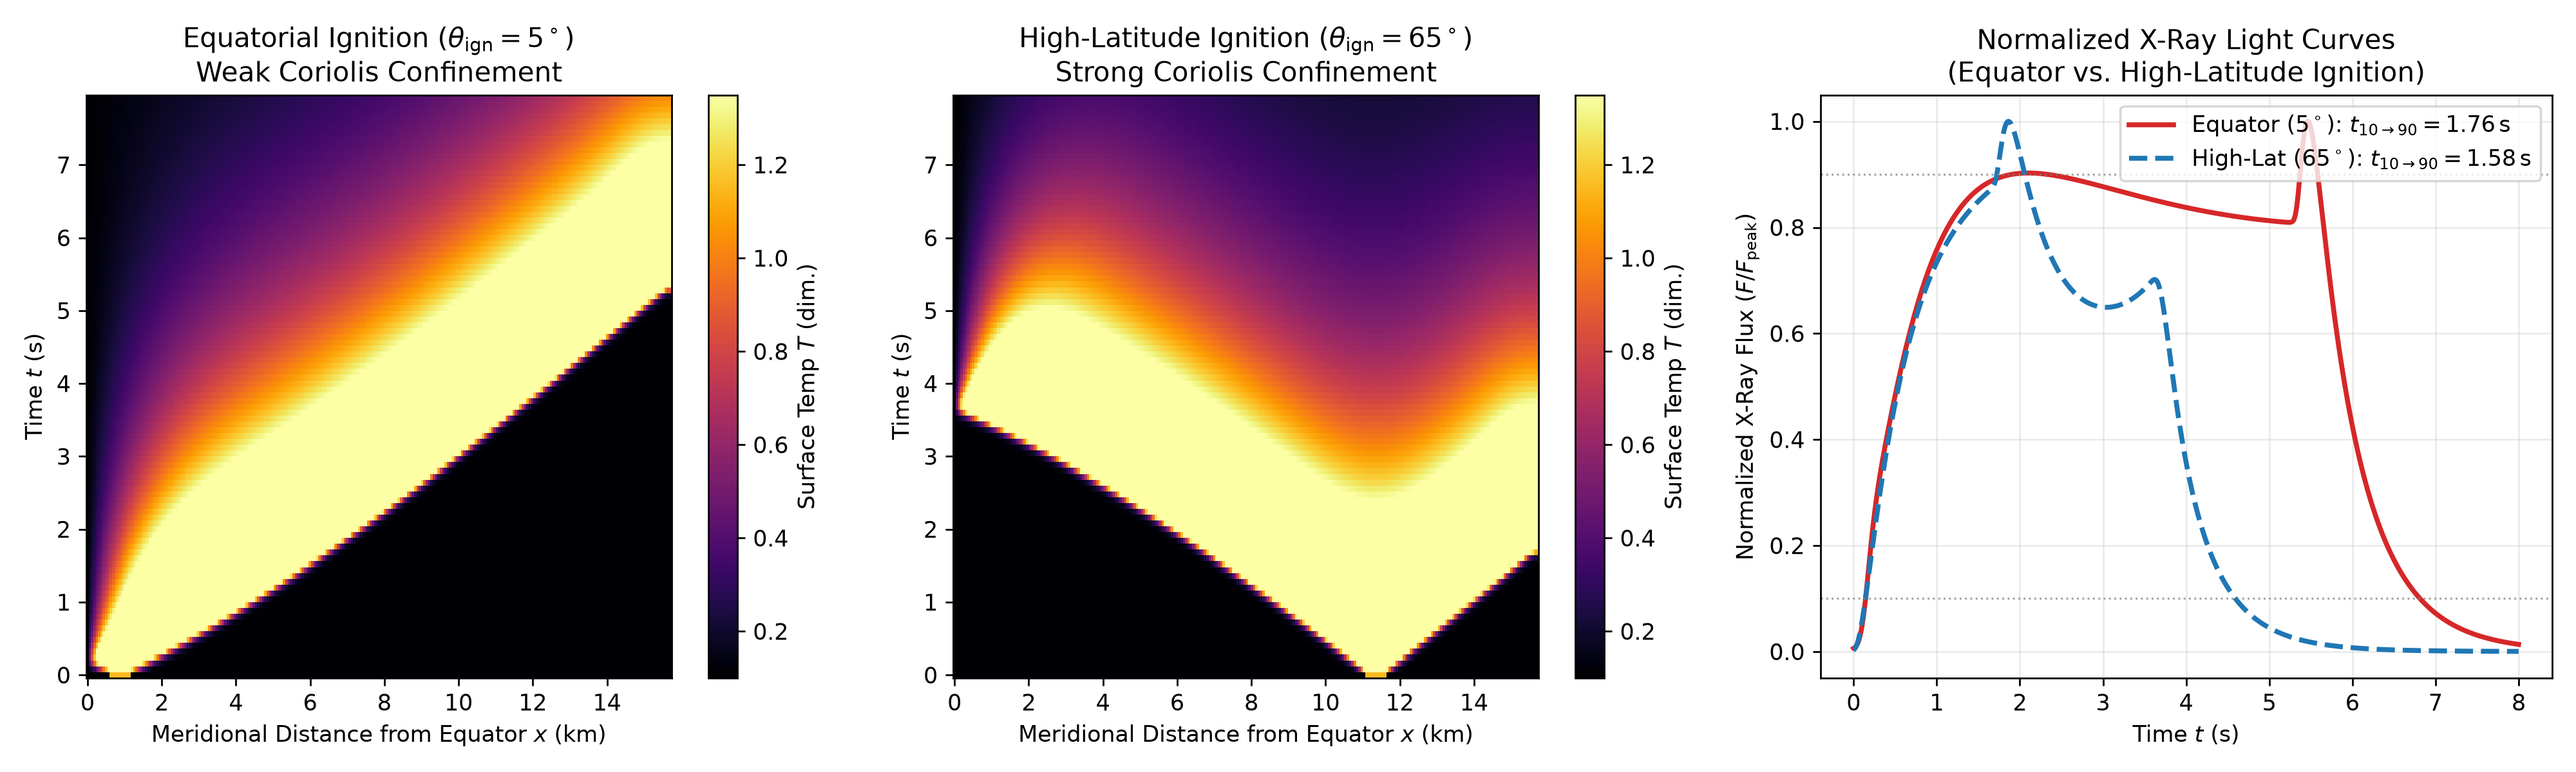
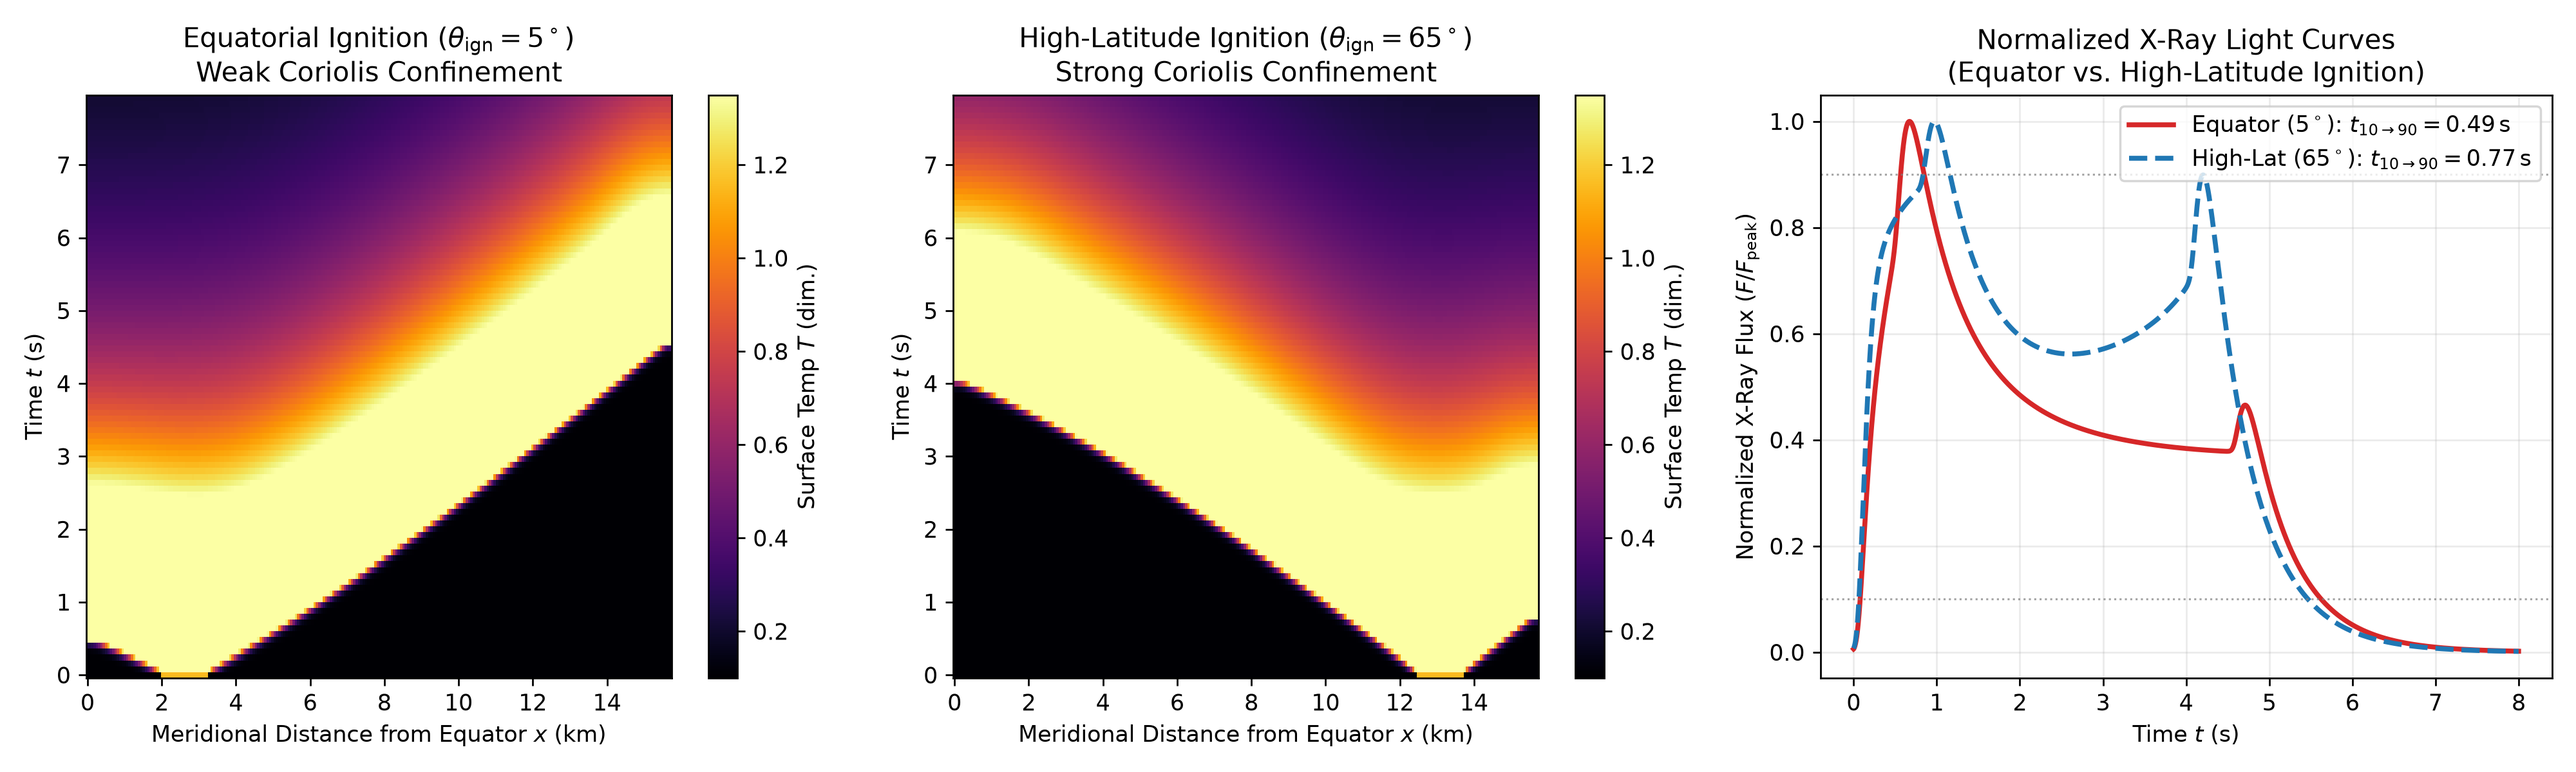
Added unit tests and corrections made

diff --git a/main.py b/main.py
@@ -14,7 +14,9 @@ def run_altamirano_comparison_experiment() -> None:
     grid = NeutronStarGridConfig(star_radius_km=10.0, nx=250, total_time_s=8.0, dt=0.0005)
 
     # Scenario A: Low-accretion equatorial ignition (weak Coriolis drag -> fast burst rise)
-    equator_physics = BurstPhysicsConfig(ignition_latitude_deg=5.0, polar_coriolis_drag=2.8)
+    equator_physics = BurstPhysicsConfig(ignition_latitude_deg=15.0,
+                                         ignition_width_km=1.2,
+                                         polar_coriolis_drag=2.5)
     equator_solver = ThermonuclearFlameSolver1D(
         grid=grid,
         physics=equator_physics,
@@ -25,7 +27,9 @@ def run_altamirano_comparison_experiment() -> None:
     equator_result = equator_solver.run(num_snapshots=100)
 
     # Scenario B: High-accretion high-latitude ignition (strong Coriolis drag -> slow burst rise)
-    high_lat_physics = BurstPhysicsConfig(ignition_latitude_deg=65.0, polar_coriolis_drag=2.8)
+    high_lat_physics = BurstPhysicsConfig(ignition_latitude_deg=75.0,
+                                          ignition_width_km=1.2,
+                                          polar_coriolis_drag=2.5, )
     high_lat_solver = ThermonuclearFlameSolver1D(
         grid=grid,
         physics=high_lat_physics,
@@ -37,9 +41,9 @@ def run_altamirano_comparison_experiment() -> None:
 
     print("=== 1D Thermonuclear Flame Simulation Summary (cf. Altamirano et al. 2022) ===")
     print(f"CFL Stability Number         : {equator_solver.cfl_number:.4f} (limit <= 0.5000)")
-    print(f"Equatorial Burst (5 deg)     : Peak at t = {equator_result.peak_time_s:.2f} s | "
+    print(f"Equatorial Burst (15 deg)    : Peak at t = {equator_result.peak_time_s:.2f} s | "
           f"Rise t_10->90 = {equator_result.rise_time_10_90_s:.2f} s")
-    print(f"High-Latitude Burst (65 deg) : Peak at t = {high_lat_result.peak_time_s:.2f} s | "
+    print(f"High-Latitude Burst (75 deg) : Peak at t = {high_lat_result.peak_time_s:.2f} s | "
           f"Rise t_10->90 = {high_lat_result.rise_time_10_90_s:.2f} s")
 
     BurstVisualizer.plot_equator_vs_high_latitude(

diff --git a/tests/test_ignition_process.py b/tests/test_ignition_process.py
@@ -1,0 +1,47 @@
+import numpy as np
+from src.config import BurstPhysicsConfig, NeutronStarGridConfig
+from src.ignition_process import (
+    ArrheniusReaction,
+    LatitudeCoriolisDrag,
+    NeumannZeroFluxBoundary,
+    UniformDiffusivity,
+)
+
+
+# --- TESTS FOR REACTION, DIFFUSIVITY & BOUNDARY MODELS (src/ignition_process.py) ---
+
+def test_arrhenius_reaction_respects_ignition_threshold() -> None:
+    """Verifies nuclear reaction rate is strictly zero below ignition_threshold and positive above."""
+    physics = BurstPhysicsConfig(ignition_threshold=0.22)
+    reaction = ArrheniusReaction(physics)
+
+    temps = np.array([0.10, 0.22, 0.50, 1.15], dtype=np.float64)
+    fuel = np.ones_like(temps)
+    rates = reaction.compute_rate(temps, fuel)
+
+    assert rates[0] == 0.0
+    assert rates[1] == 0.0
+    assert rates[2] > 0.0
+    assert rates[3] > rates[2]  # Higher temperature yields faster burning
+
+def test_coriolis_diffusivity_decreases_from_equator_to_pole() -> None:
+    """Verifies Spitkovsky et al. (2002) Coriolis drag reduces diffusivity toward the pole."""
+    grid = NeutronStarGridConfig(nx=100)
+    physics = BurstPhysicsConfig(base_diffusivity=0.85, polar_coriolis_drag=2.8)
+
+    coriolis_profile = LatitudeCoriolisDrag().compute_diffusivity_profile(grid, physics)
+    uniform_profile = UniformDiffusivity().compute_diffusivity_profile(grid, physics)
+
+    assert np.isclose(coriolis_profile[0], physics.base_diffusivity)
+    assert coriolis_profile[-1] < coriolis_profile[0]
+    assert np.all(coriolis_profile <= uniform_profile)
+
+
+def test_neumann_zero_flux_boundary_symmetry() -> None:
+    """Verifies NeumannZeroFluxBoundary mirrors adjacent interior nodes at both ends."""
+    field = np.array([0.1, 0.45, 0.6, 0.85, 0.1], dtype=np.float64)
+    NeumannZeroFluxBoundary().apply(field)
+
+    assert np.isclose(field.item(0), field.item(1))
+    assert np.isclose(field.item(-1), field.item(-2))
+

diff --git a/tests/test_config.py b/tests/test_config.py
@@ -1,0 +1,38 @@
+import pytest
+from src.config import (
+    BurstPhysicsConfig,
+    NeutronStarGridConfig,
+    validate_cfl_stability,
+)
+
+
+# --- TESTS FOR CONFIGURATION & CFL STABILITY GUARDS (src/config.py) ---
+
+def test_grid_config_rejects_invalid_inputs() -> None:
+    """Verifies NeutronStarGridConfig blocks null, negative, or under-resolved inputs."""
+    with pytest.raises(TypeError):
+        NeutronStarGridConfig(star_radius_km=None)  # type: ignore[arg-type]
+    with pytest.raises(ValueError):
+        NeutronStarGridConfig(star_radius_km=-10.0)
+    with pytest.raises(ValueError):
+        NeutronStarGridConfig(nx=10)  # Below minimum threshold of 20 nodes
+    with pytest.raises(ValueError):
+        NeutronStarGridConfig(total_time_s=1.0, dt=1.5)  # dt >= total_time_s
+
+
+def test_physics_config_rejects_out_of_bounds_parameters() -> None:
+    """Verifies BurstPhysicsConfig blocks out-of-range latitudes, fuel fractions, and cold sparks."""
+    with pytest.raises(ValueError):
+        BurstPhysicsConfig(ignition_latitude_deg=95.0)  # Latitude cannot exceed 90 deg
+    with pytest.raises(ValueError):
+        BurstPhysicsConfig(initial_fuel_fraction=1.2)   # Fuel mass fraction must lie in (0, 1]
+    with pytest.raises(ValueError):
+        BurstPhysicsConfig(ignition_temp=0.15, ignition_threshold=0.22)  # Spark too cold to ignite
+
+
+def test_cfl_stability_guard_blocks_unstable_timestep() -> None:
+    """Verifies validate_cfl_stability raises ValueError when D * dt / dx^2 > 0.5."""
+    grid = NeutronStarGridConfig(star_radius_km=10.0, nx=250, total_time_s=2.0, dt=0.05)
+    physics = BurstPhysicsConfig(base_diffusivity=0.85)
+    with pytest.raises(ValueError, match="CFL stability violation"):
+        validate_cfl_stability(grid, physics)

diff --git a/tests/test_ignition_calculations.py b/tests/test_ignition_calculations.py
@@ -1,0 +1,40 @@
+import numpy as np
+from src.config import BurstPhysicsConfig, NeutronStarGridConfig
+from src.ignition_calculations import ThermonuclearFlameSolver1D
+
+
+# --- TESTS FOR COUPLED PDE SOLVER & ASTROPHYSICAL INVARIANTS (src/ignition_calculations.py) ---
+
+def test_solver_preserves_physical_bounds() -> None:
+    """Verifies temperature stays >= T_0, fuel remains in, and flux stays finite."""
+    grid = NeutronStarGridConfig(nx=120, total_time_s=3.0, dt=0.001)
+    physics = BurstPhysicsConfig(ignition_latitude_deg=10.0)
+    solver = ThermonuclearFlameSolver1D(grid=grid, physics=physics)
+    result = solver.run(num_snapshots=20)
+
+    assert np.all(np.isfinite(result.T_history))
+    assert np.all(np.isfinite(result.xray_flux_norm))
+    assert np.all(result.T_history >= physics.quiescent_temp)
+    assert np.all((result.Y_history >= 0.0) & (result.Y_history <= 1.0))
+    assert np.isclose(np.max(result.xray_flux_norm), 1.0)
+
+
+def test_high_latitude_ignition_produces_slower_rise_than_equator() -> None:
+    """Verifies high-latitude ignition (65 deg) yields a longer rise time than equatorial ignition (5 deg)."""
+    grid = NeutronStarGridConfig(nx=180, total_time_s=7.0, dt=0.0008)
+
+    eq_physics = BurstPhysicsConfig(
+        ignition_latitude_deg=15.0,
+        ignition_width_km=1.2,
+        polar_coriolis_drag=2.5,
+    )
+    hl_physics = BurstPhysicsConfig(
+        ignition_latitude_deg=75.0,
+        ignition_width_km=1.2,
+        polar_coriolis_drag=2.5,
+    )
+
+    eq_result = ThermonuclearFlameSolver1D(grid=grid, physics=eq_physics).run(num_snapshots=30)
+    hl_result = ThermonuclearFlameSolver1D(grid=grid, physics=hl_physics).run(num_snapshots=30)
+
+    assert hl_result.rise_time_10_90_s > eq_result.rise_time_10_90_s

diff --git a/src/ignition_process.py b/src/ignition_process.py
@@ -128,5 +128,5 @@ class NeumannZeroFluxBoundary(BoundaryCondition):
         _validate_1d_state_array(field, "field")
         if field.size < 3:
             raise ValueError("Field must contain at least 3 grid nodes to apply boundary conditions.")
-        field = field
+        field.__setitem__(0, field.item(1))
         field[-1] = field[-2]
